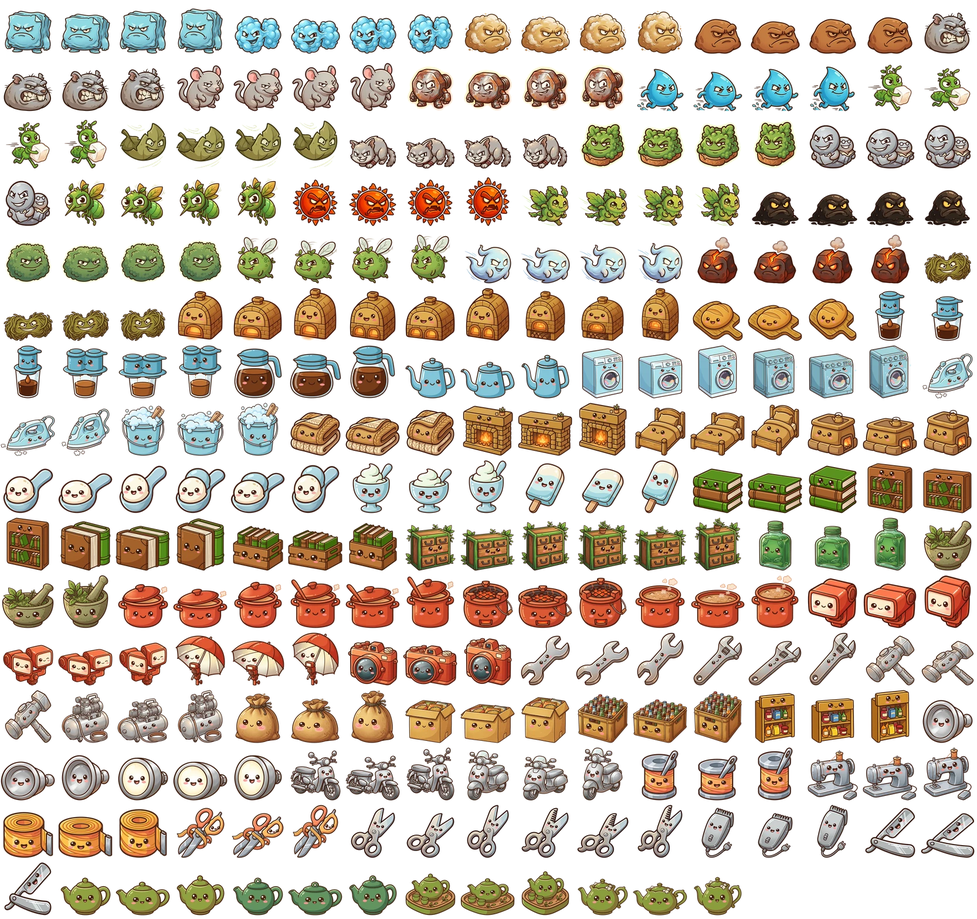
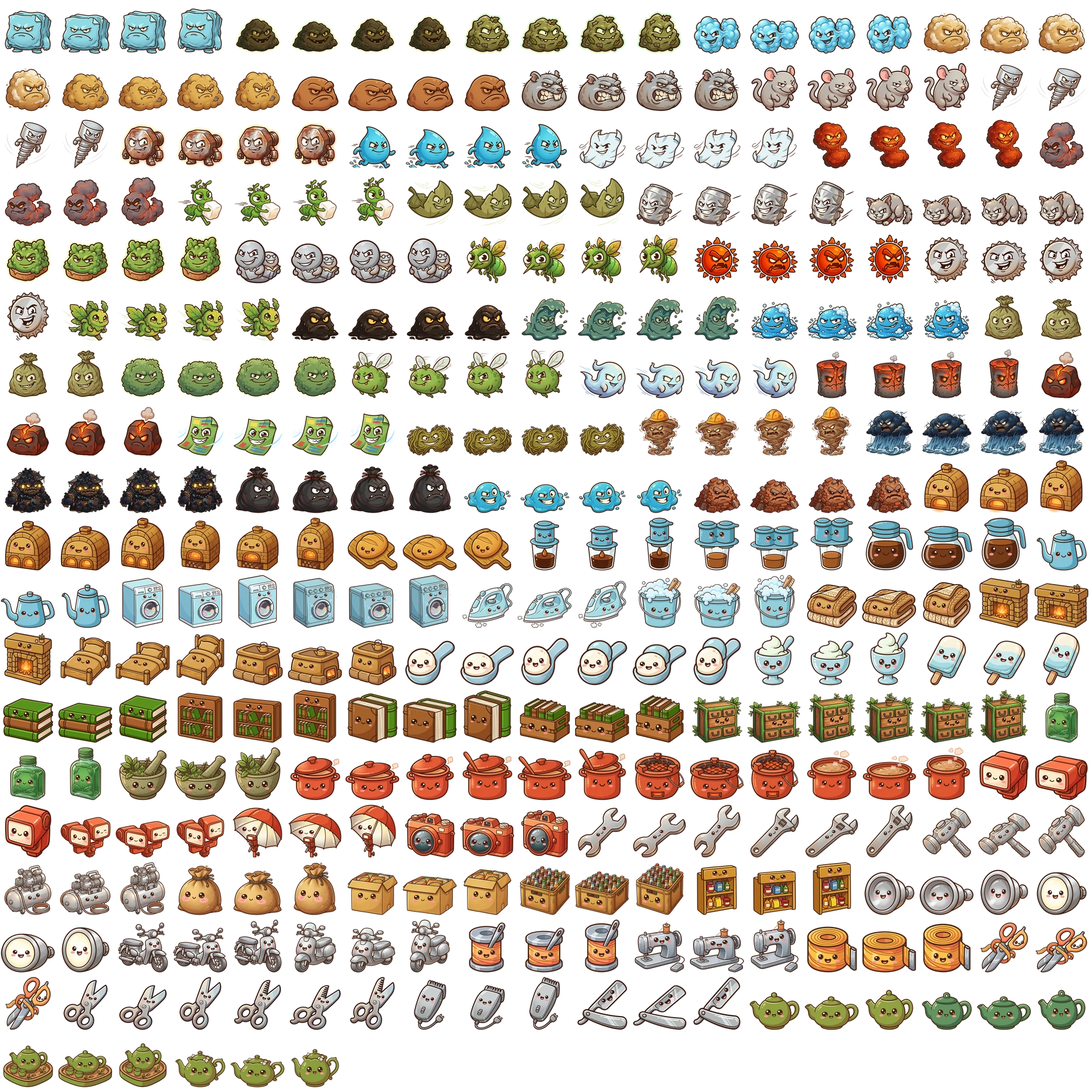
Spark đợt 6: quái ngoài phố và 3 trùm phố thật
Claude-Session: https://claude.ai/code/session_01X21C3yKyKWkBxdp7Y7iVUK

diff --git a/docs/REVIEW_LOG.md b/docs/REVIEW_LOG.md
@@ -332,3 +332,7 @@ NÉT VẼ: ĐỒNG Ý (anh Kha duyệt 22/11/2026, theo 3 hình mẫu trong docs
 - Bản đồ Đà Lạt: chạm phố → danh sách tiệm (món chính, sao, khoá) + màn phố cuối danh sách, thanh "đã giữ x/n". Thắng tiệm → nút "Tiệm tiếp theo" / "Ra phố đánh trùm".
 - Xe: src/core/vehicles.ts, chọn xe ở mục phố thật, nút chiêu xe trong màn, màn kết quả báo nhận xe mới. Hình xe tạm bằng biểu tượng, chờ Spark đợt 8.
 - `npm test` 72/72, e2e 17/17.
+
+## 23/11/2026 — Spark đợt 6: quái ngoài phố + 3 trùm (Claude)
+- 17 quái đường phố (vỏ lon, túi rác, khăn giấy, khói nướng, nước rửa chén, bãi rác, nắp chai, bụi đường, tàn thuốc, vũng nước, bã cà phê, đinh ốc, xà bần, tờ rơi, khói xe, nước cống, rác ven đường) + 3 trùm (Núi Rác Chợ Đêm, Cơn Mưa Ngập Dốc, Lốc Bụi Công Trình). Đạt nét. Kho Spark: 15 loại món, 42 quái.
+- Lưu ý: tải song song từ Drive có thể trả về lệch thứ tự → ghép theo tên file, không theo thứ tự tải.
